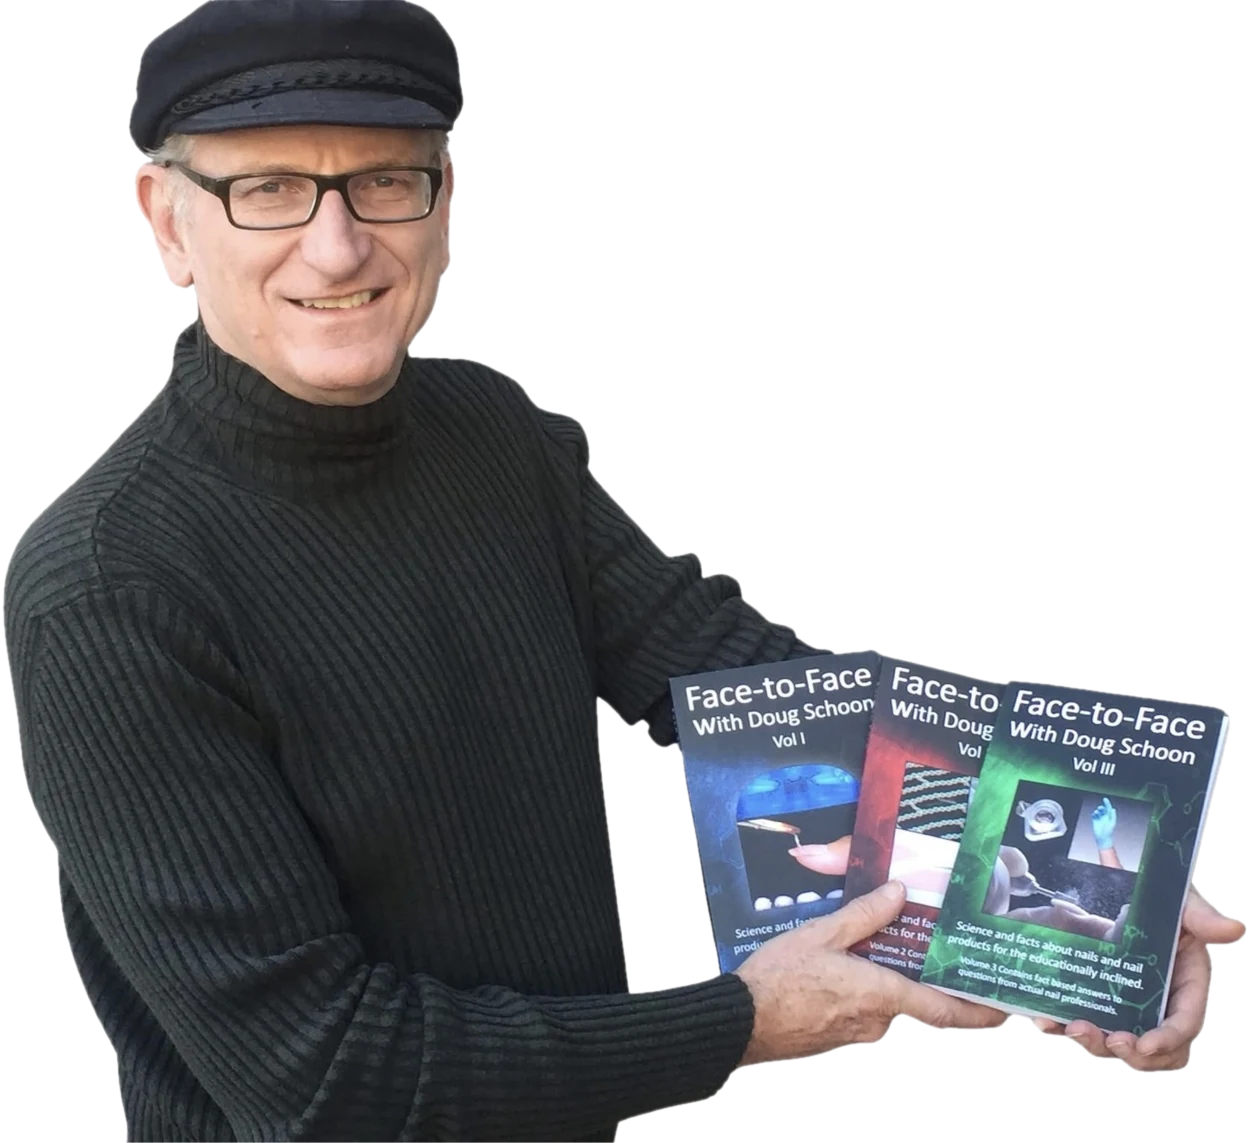
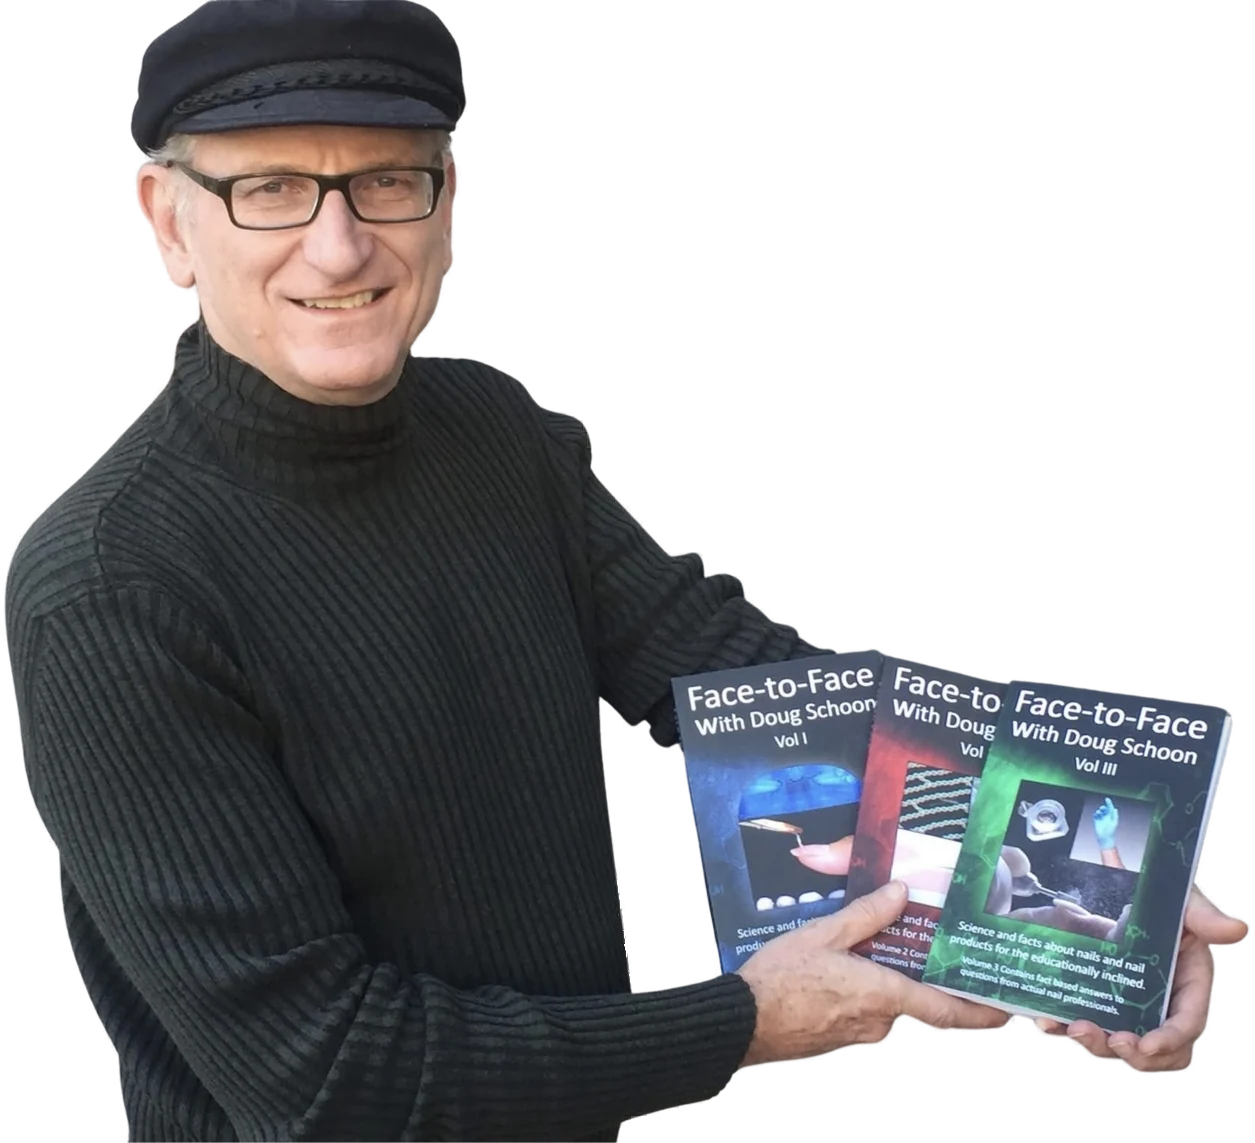
Restore topic card 02 and re-cut speaker photo around the head
- Topic card 02 is back to "02 / НОКЪТЯТ — Структура и анатомия"
  (it had been overwritten with a duplicate safety card).
- Speaker photo re-cut with an ML matte so grey hair, ears and
  cheek edges are kept instead of being clipped with the white.

diff --git a/index.html b/index.html
@@ -74,7 +74,7 @@
         <div class="section-heading"><div><p class="eyebrow dark">ЗНАНИЕ С ПРАКТИЧЕСКА СТОЙНОСТ</p><h2 id="topics-title">Въпросите са ваши.<br>Отговорите в науката.</h2></div><p>Два дни, посветени на по-доброто разбиране на ноктите, продуктите и безопасната професионална работа.</p></div>
         <div class="topic-grid">
           <article class="topic-card topic-feature"><span class="topic-number">01 / НАУЧНИТЕ ФАКТИ</span><div class="molecule" aria-hidden="true"><span></span><span></span><span></span><span></span></div><h3>Отвъд митовете.<br>До същината.</h3><p>Научни данни и актуални изследвания. Разберете не само резултатите, а и как се стига до тях.</p><span class="topic-footer">ПРЯКО ОТ DOUG SCHOON <span aria-hidden="true">↗</span></span></article>
-          <article class="topic-card"><span class="topic-number">02 / БЕЗОПАСНОСТТА</span><h3>БЕЗОПАСНОСТТА</h3><p>Как да разбираме факторите, които влияят върху безопасността и качеството на професионалната работа.</p></article>
+          <article class="topic-card"><span class="topic-number">02 / НОКЪТЯТ</span><h3>Структура<br>и анатомия</h3><p>Разберете как е изграден естественият нокът и кои са особеностите, които определят професионалната работа.</p></article>
           <article class="topic-card"><span class="topic-number">03 / ХИМИЯТА</span><h3>Как работят<br>продуктите</h3><p>Научете защо различните материали се държат по различен начин и как взаимодействат с нокътната плочка.</p></article>
           <article class="topic-card"><span class="topic-number">04 / БЕЗОПАСНОСТТА</span><h3>По-информирани<br>решения</h3><p>Практически принципи за безопасност, информиран избор на продукти и по-високо качество в салона.</p></article>
           <article class="topic-card"><span class="topic-number">05 / ПРОБЛЕМИТЕ</span><h3>Причината<br>зад резултата</h3><p>Разгледайте често срещани проблеми и научните процеси, които обясняват причините зад резултата.</p></article>
